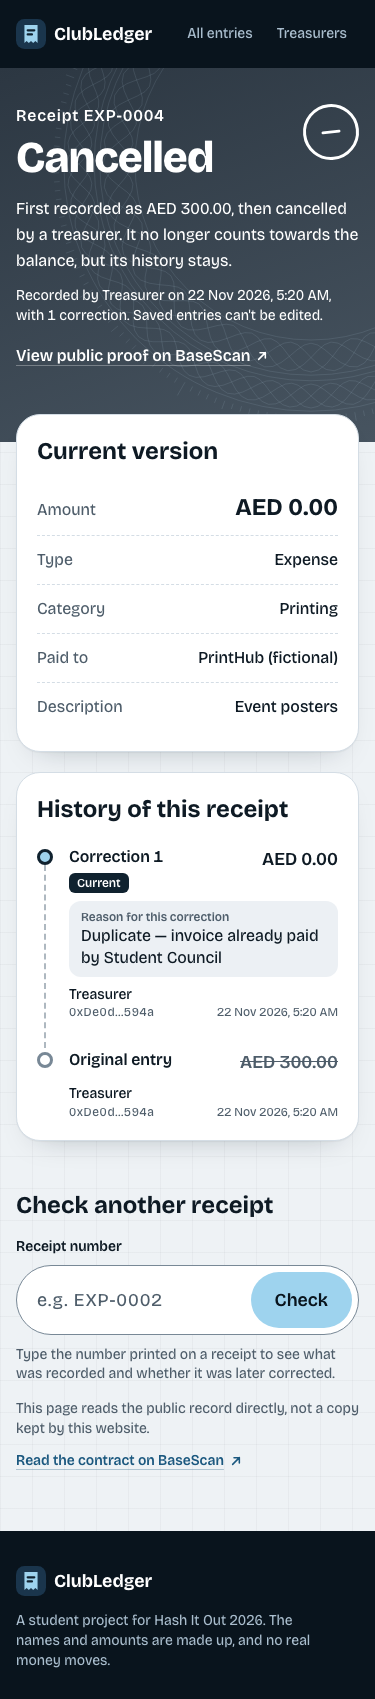
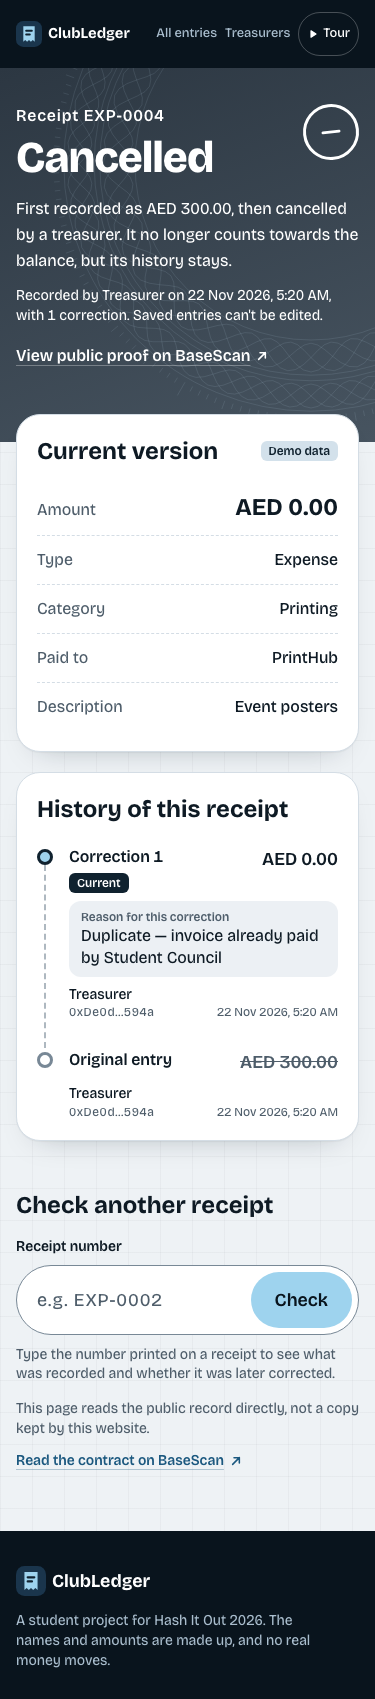
Tour live: production evidence, screenshots, steadier Pause test

diff --git a/frontend/e2e/tour.spec.ts b/frontend/e2e/tour.spec.ts
@@ -106,12 +106,16 @@ test('tour: taking it is remembered too', async ({ page }) => {
 test('tour: Pause freezes the bar, the clock and the pending action', async ({ page }) => {
   await page.goto('/')
   await replay(page)
-  await next(page)
+  const bar = () => card(page).locator('[data-state="current"] > span').evaluate((el) => parseFloat(el.style.transform.match(/[\d.]+/)?.[0] ?? '0'))
+  await expect.poll(bar).toBeGreaterThan(0) // the clock is running
   await card(page).getByRole('button', { name: 'Pause' }).click()
-  const bar = () => card(page).locator('[data-state="current"] > span').getAttribute('style')
   const frozen = await bar()
-  await page.waitForTimeout(9000) // longer than the step
+  await page.waitForTimeout(1500)
   expect(await bar()).toBe(frozen)
+  // Already paused on arrival, so this can't race step 2's action, which is due after 700 ms.
+  await next(page)
+  await page.waitForTimeout(9000) // longer than the step
+  expect(await bar()).toBe(0)
   await expect(card(page)).toHaveAttribute('data-step', '2')
   const field = page.locator('[data-tour-page] #receipt')
   await expect(field).toHaveValue('')

diff --git a/PROGRESS.md b/PROGRESS.md
@@ -258,10 +258,14 @@ Evidence: compiling that JSON with solc 0.8.24 gives the deployed runtime byteco
 
 ---
 
-## Live look kept, ledger and guided tour (branch `ui/keep-theme`) — built, waiting for approval to go live
+## Live look kept, ledger and guided tour (branch `ui/keep-theme`) — ✅ LIVE
 
 - Redesign v3 (`ui/ledger-receipt`) was rejected for its look and is not used. The live Graphite & steel theme stays.
 - Kept from it: running-balance ledger, copyable contract address, quiet search field, "Demo data" marker, long-value layout fixes.
 - Guided tour (SPEC §3.7): 8 steps, about 62 s, played through at 1440x900 and 375x812 in Chromium and WebKit with every target hit, none covered and a clean console.
 - Tests: Vitest 98, Foundry 29, Playwright 55 on public data, tour suite 27 in WebKit, local write suite 5/5, audit 0 problems (11 screens, 5 widths).
-- Not deployed, not merged, not pushed. Untested: real phone, real Safari, real MetaMask on this build.
+- **LIVE 22 Nov, approved by Aryesh.** Merged to main and deployed as `dpl_3JcAqeh4TrL3X4MdXFP5LLex7JpL`. Both domains byte-identical to the tested build (6/6 files).
+- On production: Playwright 55 passed on each domain with no retries; tour played in real time at both sizes in Chromium and WebKit; audit 0 problems; WebKit 24 checks; three QR targets 200.
+- First run on bpdc had 3 tests pass only on retry. One was a timing race in the Pause test (fixed, 24/24 under load). The other two did not recur in repeated runs under load.
+- Rollback: `cd frontend && vercel rollback dpl_9xi9FTHiTmg4Drfw3RGnto6fqwDp`.
+- Not pushed to GitHub. Untested: real phone, real Safari, real MetaMask on this build.
